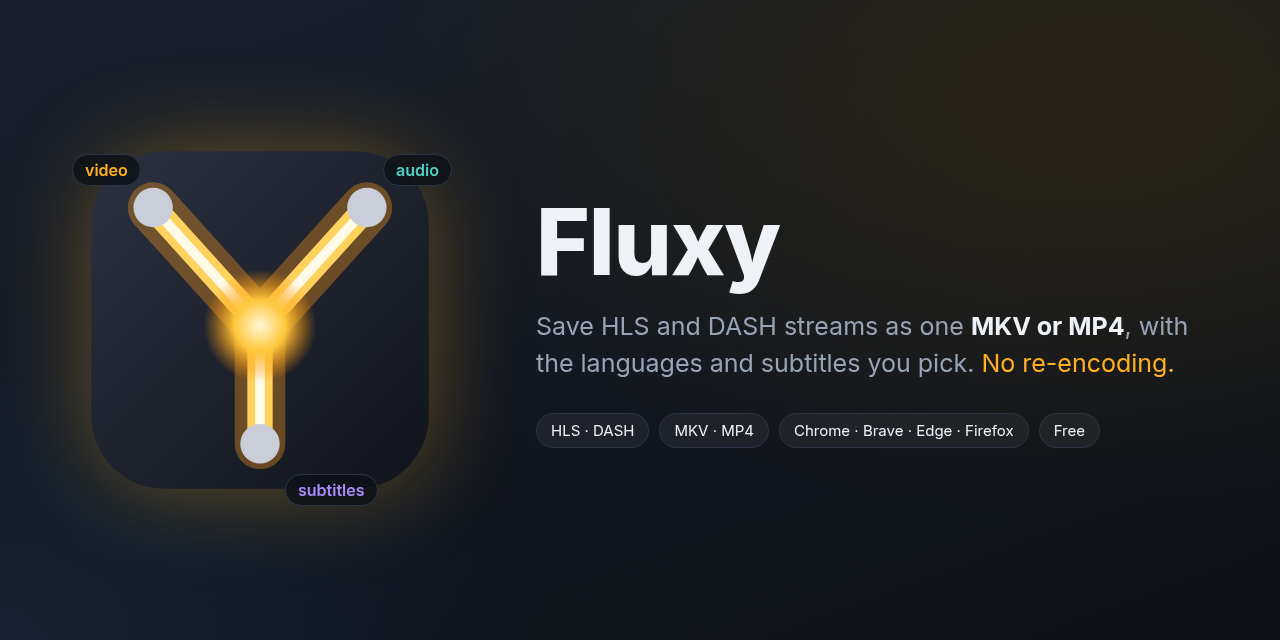
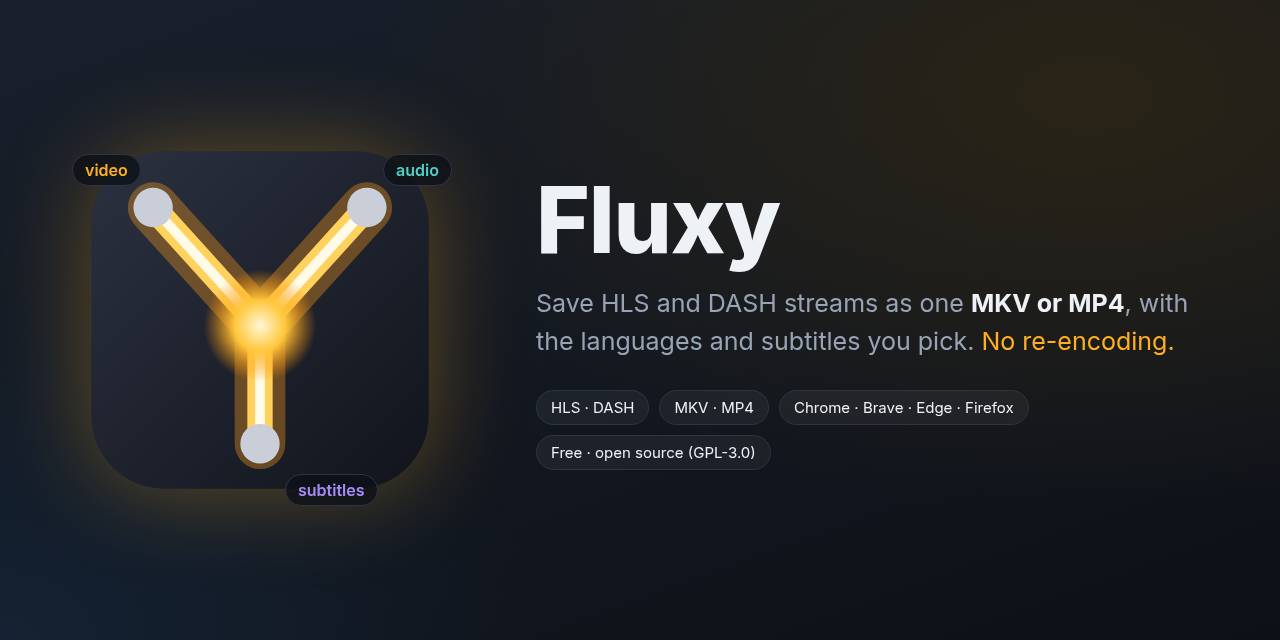
Licenza GPL-3.0-or-later con termini aggiuntivi (v0.5.2)
- LICENSE: testo ufficiale GPL-3.0.
- ADDITIONAL-TERMS.md (sezione 7): attribuzione "Based on Fluxy by
  lorisilbagnino" da conservare nel codice e nelle note legali mostrate;
  le versioni modificate non possono chiamarsi Fluxy; nessun diritto su
  nome e logo. Mediabunny resta MPL-2.0.
- Riga di attribuzione in fondo alle impostazioni del popup (EN/IT),
  "author" e "homepage_url" nel manifest, intestazioni SPDX nei sorgenti.
- README, scheda store e anteprima social aggiornati.

Claude-Session: https://claude.ai/code/session_01Dts39jVRYCLJxom2Pzw7QR

Changed region(s): [[0.4062, 0.2812, 0.9375, 0.5938], [0.4375, 0.625, 0.5938, 0.7188], [0.625, 0.625, 0.8438, 0.6875]]

diff --git a/docs/store/src/strings.js b/docs/store/src/strings.js
@@ -1,3 +1,5 @@
+// SPDX-License-Identifier: GPL-3.0-or-later
+// Copyright (C) 2026 lorisilbagnino — Fluxy, https://github.com/lorisilbagnino/fluxy (see ADDITIONAL-TERMS.md)
 // Texts of the store images. Each page shows ?lang=en|it (default en):
 // [data-t] gets the string as HTML, [data-img] gets "{lang}" replaced in its src.
 const STRINGS = {
@@ -70,7 +72,7 @@ const STRINGS = {
   m_lead: ['Save HLS and DASH streams as one <b style="color:var(--text)">MKV or MP4</b>, with the languages and subtitles you pick. <em style="font-style:normal;color:var(--accent)">No re-encoding.</em>',
     'Salva gli stream HLS e DASH in un unico <b style="color:var(--text)">MKV o MP4</b>, con le lingue e i sottotitoli che scegli. <em style="font-style:normal;color:var(--accent)">Senza ricodifica.</em>'],
   m_subs: ['subtitles', 'sottotitoli'],
-  sp_open: ['Free', 'Gratuito'],
+  sp_open: ['Free · open source (GPL-3.0)', 'Gratuito · open source (GPL-3.0)'],
 };
 
 (() => {

diff --git a/extension/popup.js b/extension/popup.js
@@ -1,3 +1,5 @@
+// SPDX-License-Identifier: GPL-3.0-or-later
+// Copyright (C) 2026 lorisilbagnino — Fluxy, https://github.com/lorisilbagnino/fluxy (see ADDITIONAL-TERMS.md)
 import { DEFAULT_SETTINGS, childSet, isChild, isBlockedUrl, isPageSite } from './shared.js';
 import { DONATE_URL } from './build-flags.js';
 
@@ -501,6 +503,8 @@ async function init() {
   document.documentElement.lang = UI_LANG;
   translate();
   if (DONATE_URL) { $('#donate').href = DONATE_URL; $('#donate').hidden = false; }
+  $('#credits').textContent = t('credits', `v${chrome.runtime.getManifest().version}`);
+  $('#credits').title = 'Based on Fluxy by lorisilbagnino — https://github.com/lorisilbagnino/fluxy';
   bindSettings();
 
   const key = `tab:${tabId}`;

diff --git a/extension/popup.html b/extension/popup.html
@@ -58,6 +58,8 @@
       <input id="set-langs" type="text" placeholder="en, it" spellcheck="false">
     </label>
     <a id="donate" class="donate" target="_blank" rel="noopener" hidden data-i18n="donate"></a>
+    <!-- Appropriate Legal Notices (GPL-3.0 §5d, ADDITIONAL-TERMS.md term 1): keep in modified versions -->
+    <a id="credits" class="credits" href="https://github.com/lorisilbagnino/fluxy" target="_blank" rel="noopener"></a>
   </section>
 
   <main>

diff --git a/extension/popup.css b/extension/popup.css
@@ -138,3 +138,5 @@ input:focus-visible, select:focus-visible, button:focus-visible { outline: 2px s
 .page-card b { color: var(--text); font-weight: 600; }
 .donate { justify-self: start; font-size: 12px; color: var(--accent); text-decoration: none; }
 .donate:hover { text-decoration: underline; }
+.credits { justify-self: start; font-size: 11px; color: var(--muted); text-decoration: none; }
+.credits:hover { color: var(--text); text-decoration: underline; }

diff --git a/extension/build-flags.js b/extension/build-flags.js
@@ -1,3 +1,5 @@
+// SPDX-License-Identifier: GPL-3.0-or-later
+// Copyright (C) 2026 lorisilbagnino — Fluxy, https://github.com/lorisilbagnino/fluxy (see ADDITIONAL-TERMS.md)
 // Overwritten by build.py for each target. Defaults = GitHub build.
 export const STORE_BUILD = false;   // store builds leave out YouTube (Chrome Web Store policy)
 export const DONATE_URL = '';       // e.g. 'https://ko-fi.com/<name>': shows "Support Fluxy" in the popup

diff --git a/extension/engine/runner.js b/extension/engine/runner.js
@@ -1,3 +1,5 @@
+// SPDX-License-Identifier: GPL-3.0-or-later
+// Copyright (C) 2026 lorisilbagnino — Fluxy, https://github.com/lorisilbagnino/fluxy (see ADDITIONAL-TERMS.md)
 // Runs browser-engine jobs: download -> mux -> hand a blob URL back for saving.
 // Lives in the offscreen document (Chromium) or in the background page (Firefox).
 // `bridge` is how it talks to the background: emit(jobId, fields), ensureHosts(jobId, urls).

diff --git a/extension/engine/i18n.js b/extension/engine/i18n.js
@@ -1,3 +1,5 @@
+// SPDX-License-Identifier: GPL-3.0-or-later
+// Copyright (C) 2026 lorisilbagnino — Fluxy, https://github.com/lorisilbagnino/fluxy (see ADDITIONAL-TERMS.md)
 // Localised strings for the engine. Uses chrome.i18n where available (background,
 // popup); the Chromium offscreen document only has chrome.runtime, so it gets a
 // table of these strings from the background with each job (setStrings).

diff --git a/extension/background.js b/extension/background.js
@@ -1,3 +1,5 @@
+// SPDX-License-Identifier: GPL-3.0-or-later
+// Copyright (C) 2026 lorisilbagnino — Fluxy, https://github.com/lorisilbagnino/fluxy (see ADDITIONAL-TERMS.md)
 // Fluxy — background (service worker on Chromium, event page on Firefox)
 // Detects HLS/DASH manifests, analyses them, runs downloads with the in-browser
 // engine (offscreen document / background page) or the optional native host.

diff --git a/extension/engine/hls.js b/extension/engine/hls.js
@@ -1,3 +1,5 @@
+// SPDX-License-Identifier: GPL-3.0-or-later
+// Copyright (C) 2026 lorisilbagnino — Fluxy, https://github.com/lorisilbagnino/fluxy (see ADDITIONAL-TERMS.md)
 // HLS playlist parsing and stream analysis (no Mediabunny: runs in the
 // background worker too). Mirrors probe_hls() in host/fluxy_host.py: the result
 // has the same shape whichever engine downloads it.

diff --git a/extension/engine/engine.js b/extension/engine/engine.js
@@ -1,3 +1,5 @@
+// SPDX-License-Identifier: GPL-3.0-or-later
+// Copyright (C) 2026 lorisilbagnino — Fluxy, https://github.com/lorisilbagnino/fluxy (see ADDITIONAL-TERMS.md)
 // Fluxy — in-browser download engine.
 // Downloads HLS renditions with fetch (parallel, AES-128 via WebCrypto), stages
 // them in OPFS, then remuxes them with Mediabunny (packet copy, no re-encode)

diff --git a/extension/offscreen.js b/extension/offscreen.js
@@ -1,3 +1,5 @@
+// SPDX-License-Identifier: GPL-3.0-or-later
+// Copyright (C) 2026 lorisilbagnino — Fluxy, https://github.com/lorisilbagnino/fluxy (see ADDITIONAL-TERMS.md)
 // Chromium: the service worker can be stopped at any time, so browser-engine
 // jobs run in this offscreen document. It only has chrome.runtime: progress
 // goes to the worker as messages.

diff --git a/extension/engine/net.js b/extension/engine/net.js
@@ -1,3 +1,5 @@
+// SPDX-License-Identifier: GPL-3.0-or-later
+// Copyright (C) 2026 lorisilbagnino — Fluxy, https://github.com/lorisilbagnino/fluxy (see ADDITIONAL-TERMS.md)
 // Network helpers shared by the probe (background) and the download engine.
 
 import { m } from './i18n.js';
